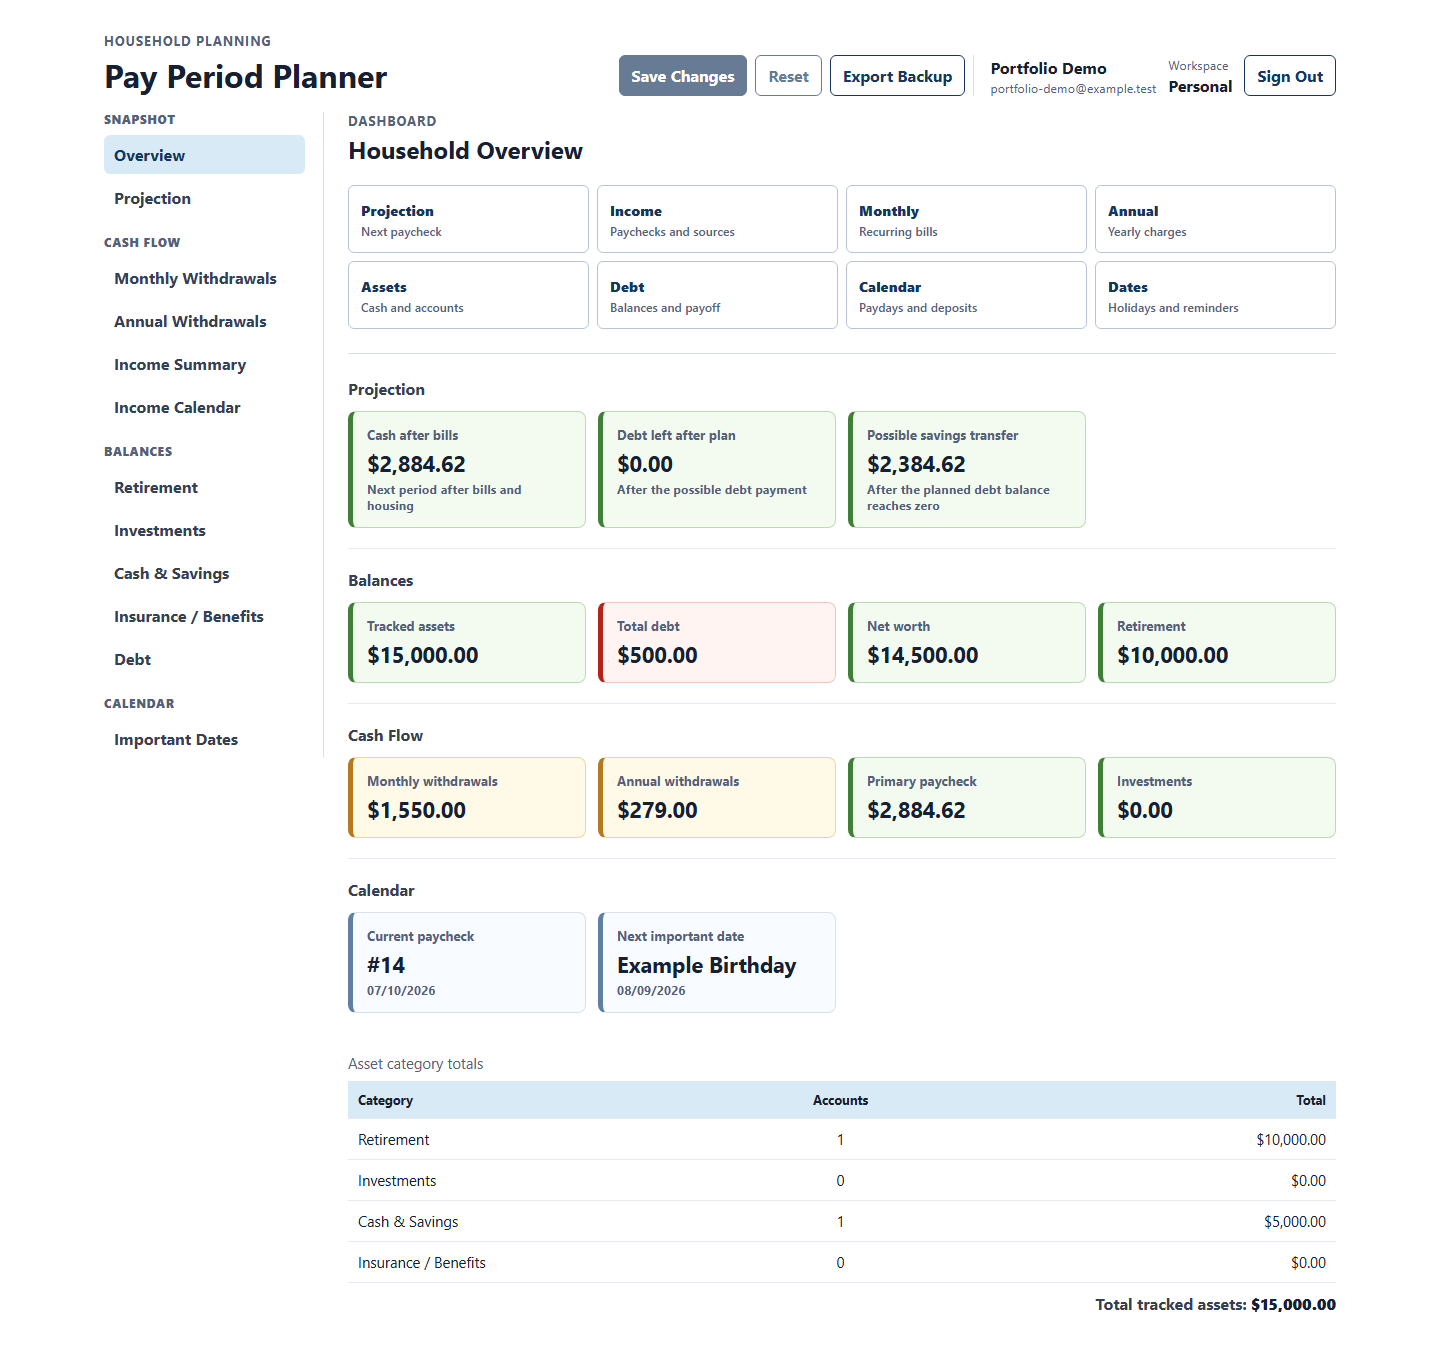
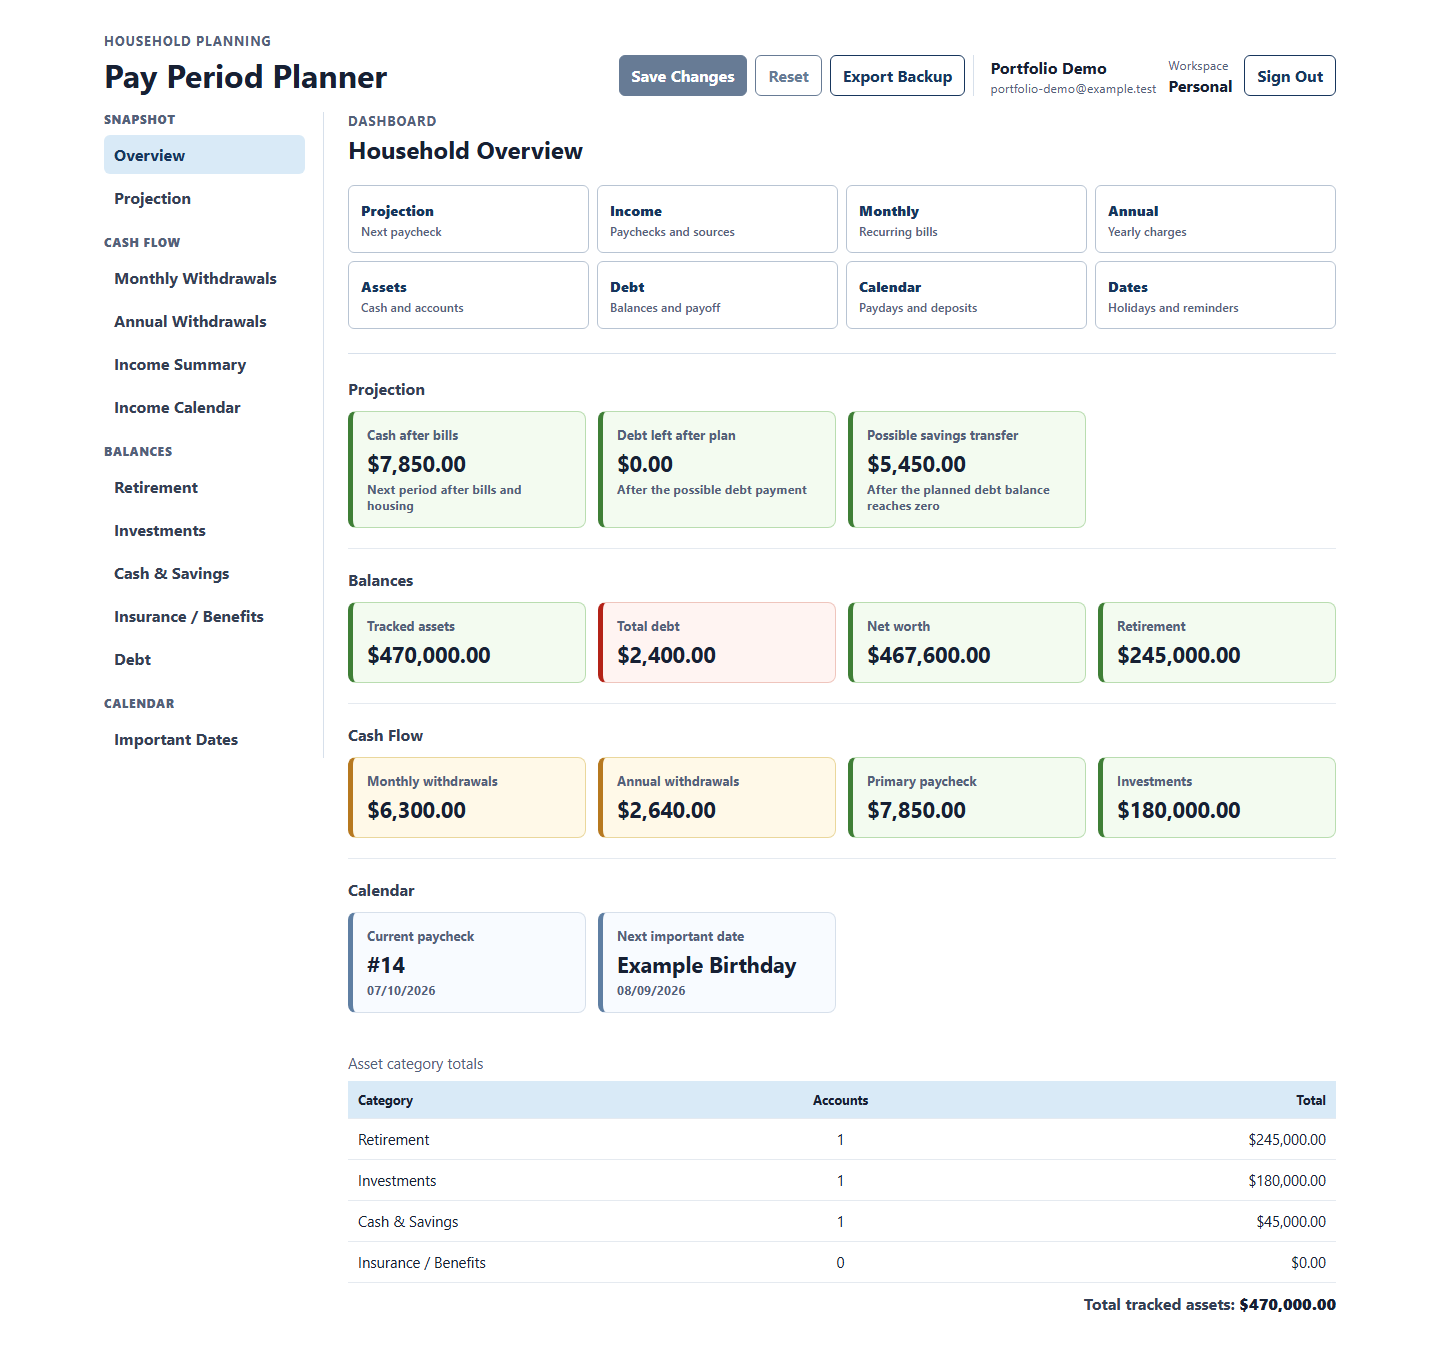
Refresh synthetic portfolio evidence

diff --git a/frontend/portfolio/portfolio-evidence.spec.ts b/frontend/portfolio/portfolio-evidence.spec.ts
@@ -21,7 +21,7 @@ test('captures the synthetic portfolio walkthrough', async ({ page }) => {
   await page.goto('/');
   await signUp(page, 'Portfolio Demo', email);
   const workspaceId = await currentWorkspaceId(page);
-  await seedSyntheticSnapshot(page, workspaceId, 350);
+  await seedSyntheticSnapshot(page, workspaceId, 2500);
   await page.reload();
 
   await expect(page.getByRole('heading', { name: 'Pay Period Planner' })).toBeVisible();

diff --git a/docs/portfolio-case-study.md b/docs/portfolio-case-study.md
@@ -10,6 +10,11 @@ Every screenshot below is generated from
 `example.test`, and an isolated PostgreSQL schema that is removed immediately
 after capture. No personal financial data is used.
 
+The fixture models an established senior technical household with strong
+income, retirement, brokerage, and cash-reserve balances. Its values are
+illustrative product inputs, not a statement about the developer's finances or
+financial advice.
+
 ## Product Walkthrough
 
 ### 1. Understand the household snapshot